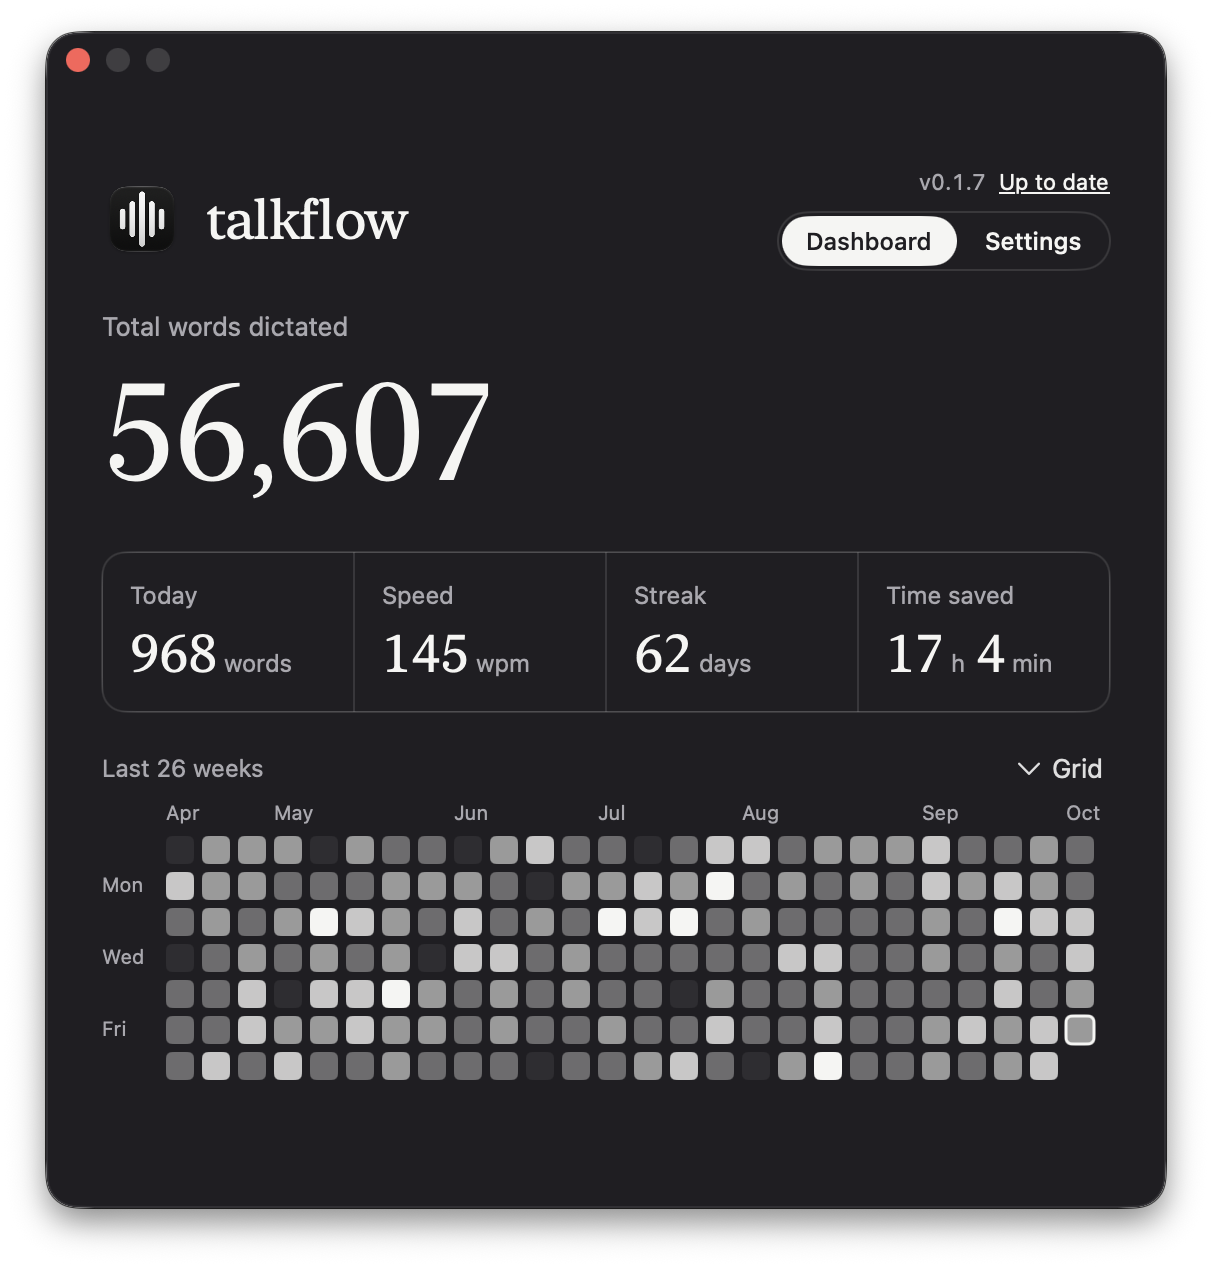
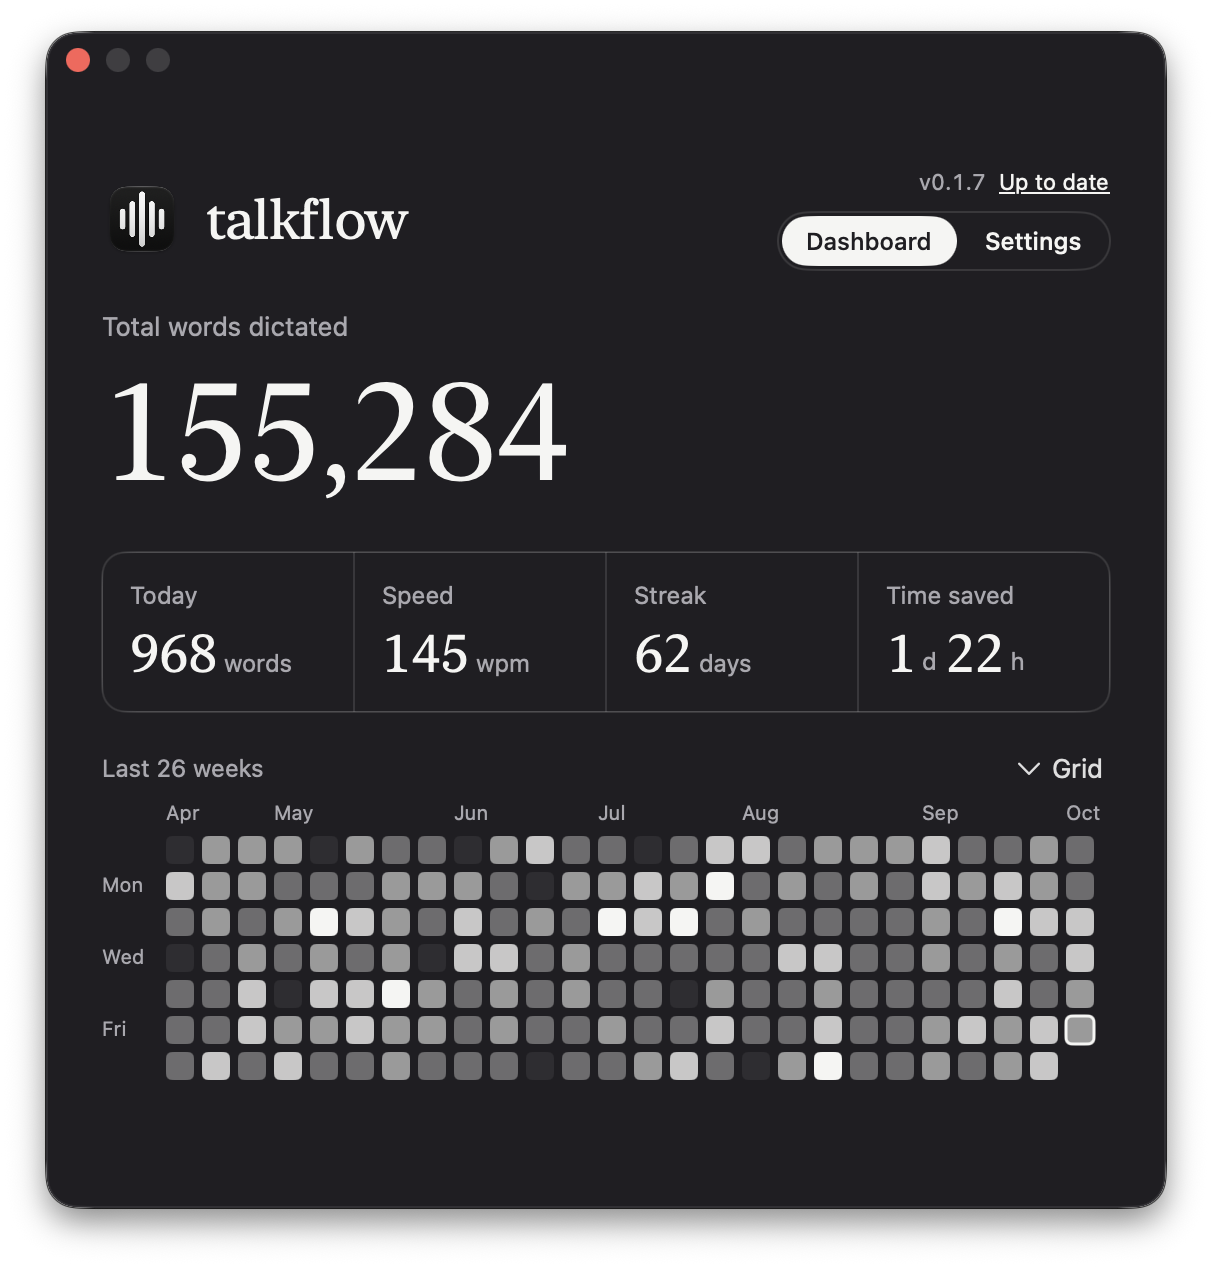
fix(site): dashboard numbers match the grid
155,284 words and 1 d 22 h saved (the app's own formula) for 170 active days, drawn in the app's fonts at its sizes; the Dock sits under the window.

Changed region(s): [[0.0916, 0.2768, 0.4579, 0.3998], [0.7327, 0.4921, 0.8548, 0.5536]]

diff --git a/client/components/landing/Stats.tsx b/client/components/landing/Stats.tsx
@@ -16,8 +16,17 @@ export function Stats() {
       </div>
 
       <figure className="mt-14">
-        <div className="relative isolate grid place-items-center overflow-hidden rounded-3xl px-3 py-8 sm:py-12">
+        <div className="relative isolate grid place-items-center overflow-hidden rounded-3xl px-3 pt-8 pb-[clamp(64px,9vw,96px)] sm:pt-12">
           <Wallpaper className="-z-10" />
+          {/* The Dock along the bottom, as on the Mac desktop in the app tour. */}
+          <Image
+            src="/app/dock.png"
+            alt=""
+            width={476.5}
+            height={62}
+            unoptimized
+            className="absolute bottom-2 left-1/2 h-auto w-[min(476.5px,calc(100%-24px))] -translate-x-1/2"
+          />
           {/* A screenshot of the real window, shadow included, taken at 2x: 560 x 588 pt plus the shadow. */}
           <Image
             src="/app/dashboard-dark.webp"
@@ -25,7 +34,7 @@ export function Stats() {
             height={634}
             unoptimized
             className="h-auto w-full max-w-[606px]"
-            alt="The talkflow Dashboard window: 56,607 total words dictated, 968 words today, 145 wpm, a 62-day streak and 17 hours 4 minutes saved, above a grid of daily activity for the last 26 weeks."
+            alt="The talkflow Dashboard window: 155,284 total words dictated, 968 words today, 145 wpm, a 62-day streak and 1 day 22 hours saved, above a grid of daily activity for the last 26 weeks."
           />
         </div>
       </figure>
